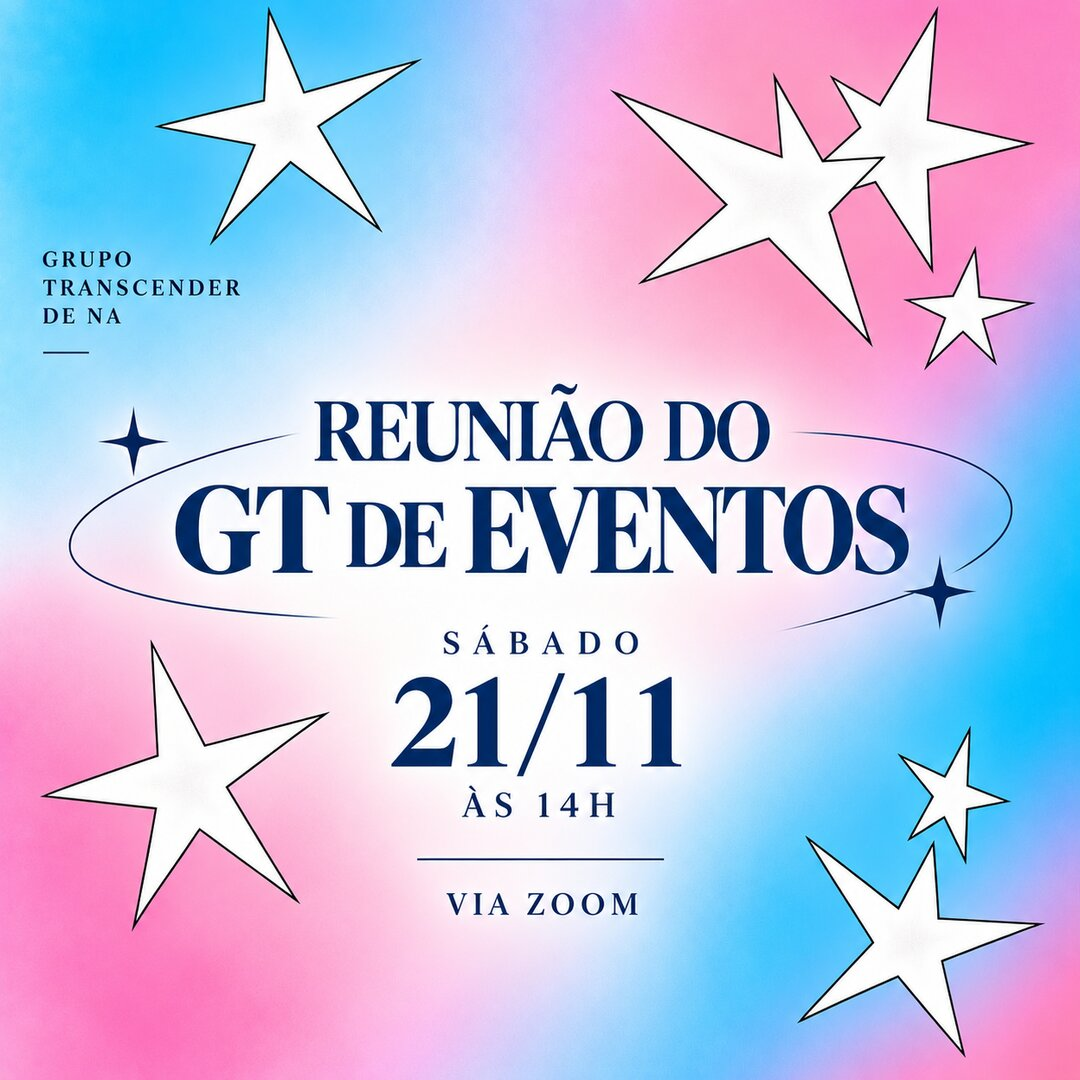
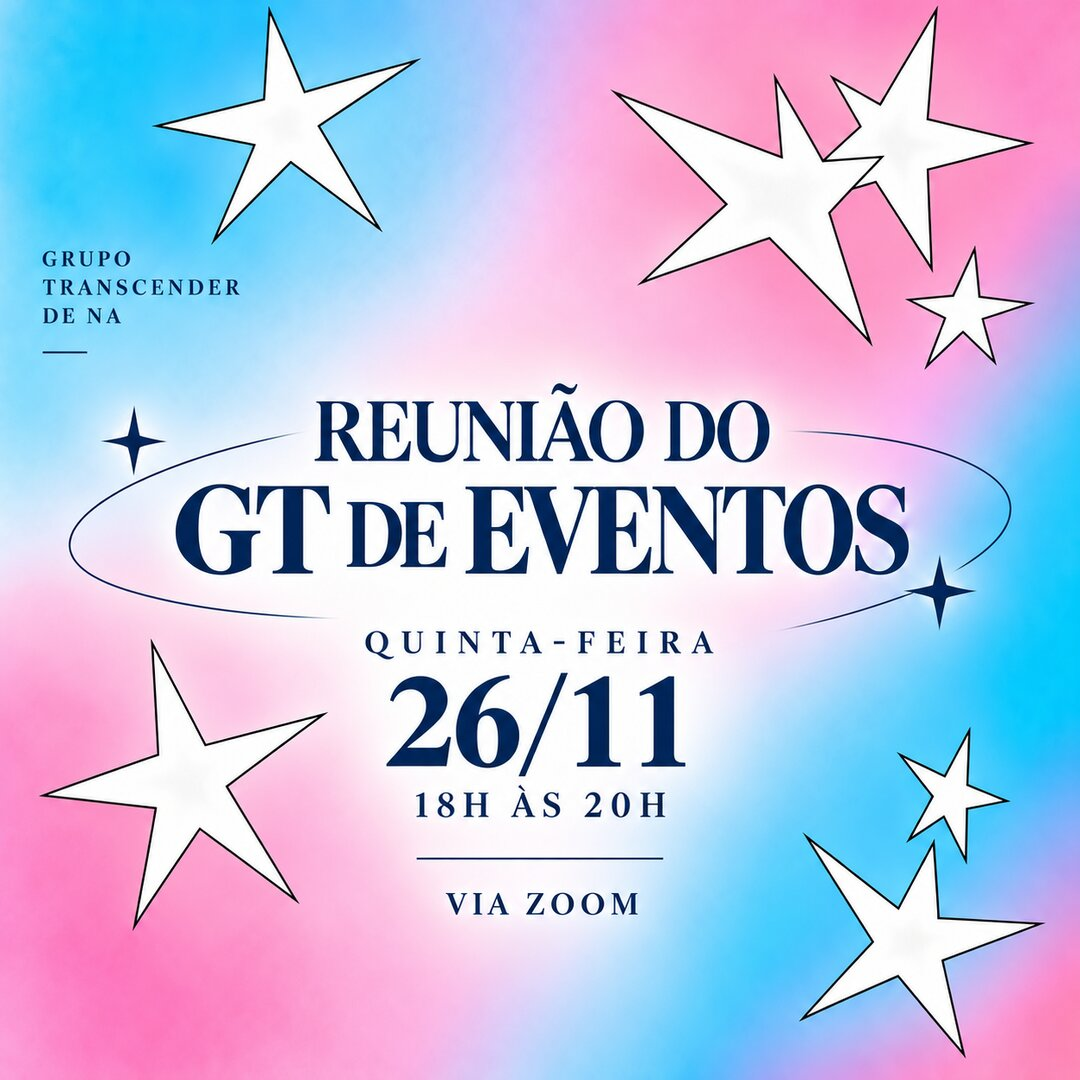
Avisos: tema Serviço e GT de Eventos 26/11
Claude-Session: https://claude.ai/code/session_0194aE3CzDxR4mD2AJmRAwue

diff --git a/index.html b/index.html
@@ -1645,7 +1645,7 @@ const B = {
     <div class="avisos">
       <div class="aviso"><p>Grupo Transcender convida: Reunião Temática aos sábados. Início às 19:00 e término às 21:00. Venha participar!</p>
         <button type="button" class="pill claro" data-convite="assets/convites/tema.jpg">Ver tema</button></div>
-      <div class="aviso"><p>Sábado, 21/11, às 14h, via Zoom: Reunião do GT de Eventos, para organizar o cronograma da maratona e definir os detalhes.</p>
+      <div class="aviso"><p>Quinta-feira, 26/11, das 18h às 20h, via Zoom: Reunião do GT de Eventos, para organizar o cronograma da maratona e definir os detalhes.</p>
         <button type="button" class="pill claro" data-convite="assets/convites/gt-eventos.jpg">Ver convite</button></div>
       <div class="aviso"><p>3º Encontemas da Diversidade: 27, 28 e 29 de novembro de 2026, na Terra do Saber, em Cajamar (SP). Inscrições em <a href="https://www.encontemas-diversida.de/" target="_blank" rel="noopener">encontemas-diversida.de</a></p>
         <button type="button" class="pill claro" data-convite="assets/convites/encontemas-cartaz.jpg">Ver convite</button></div>
